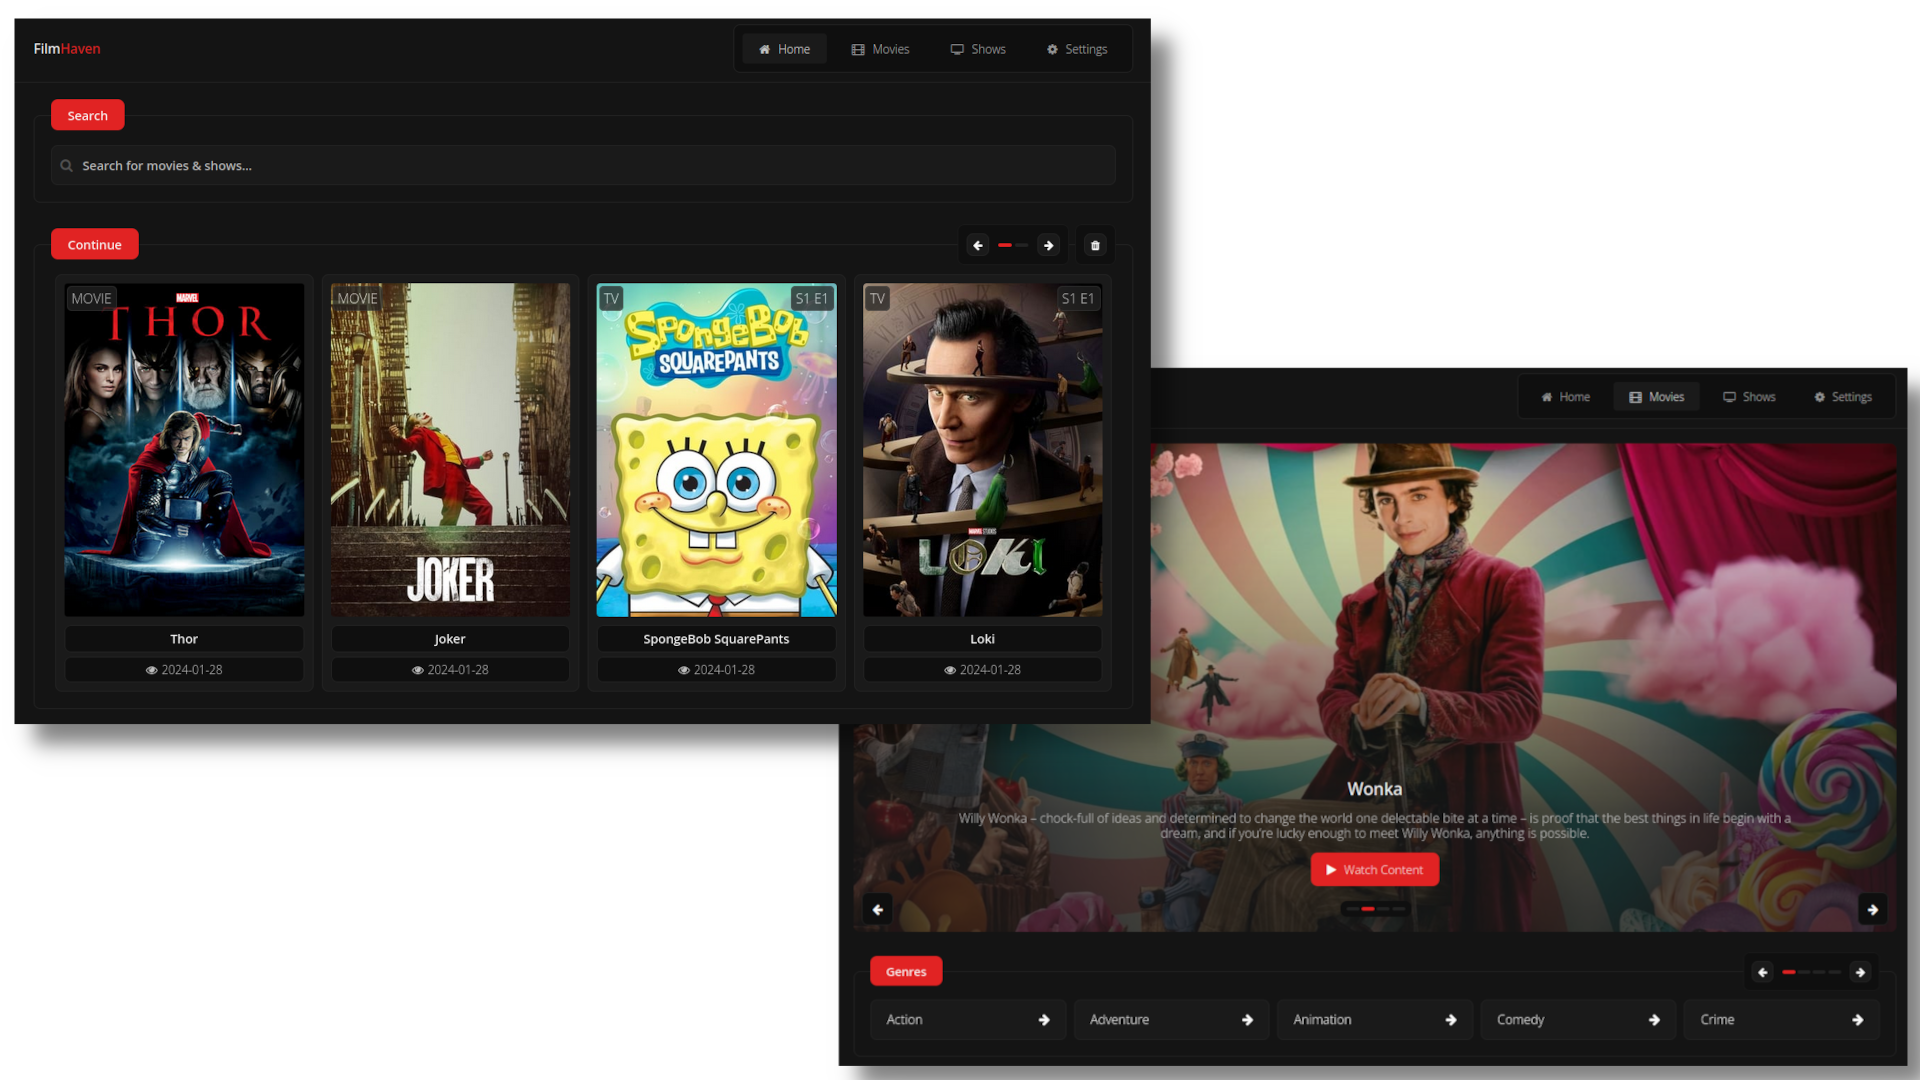
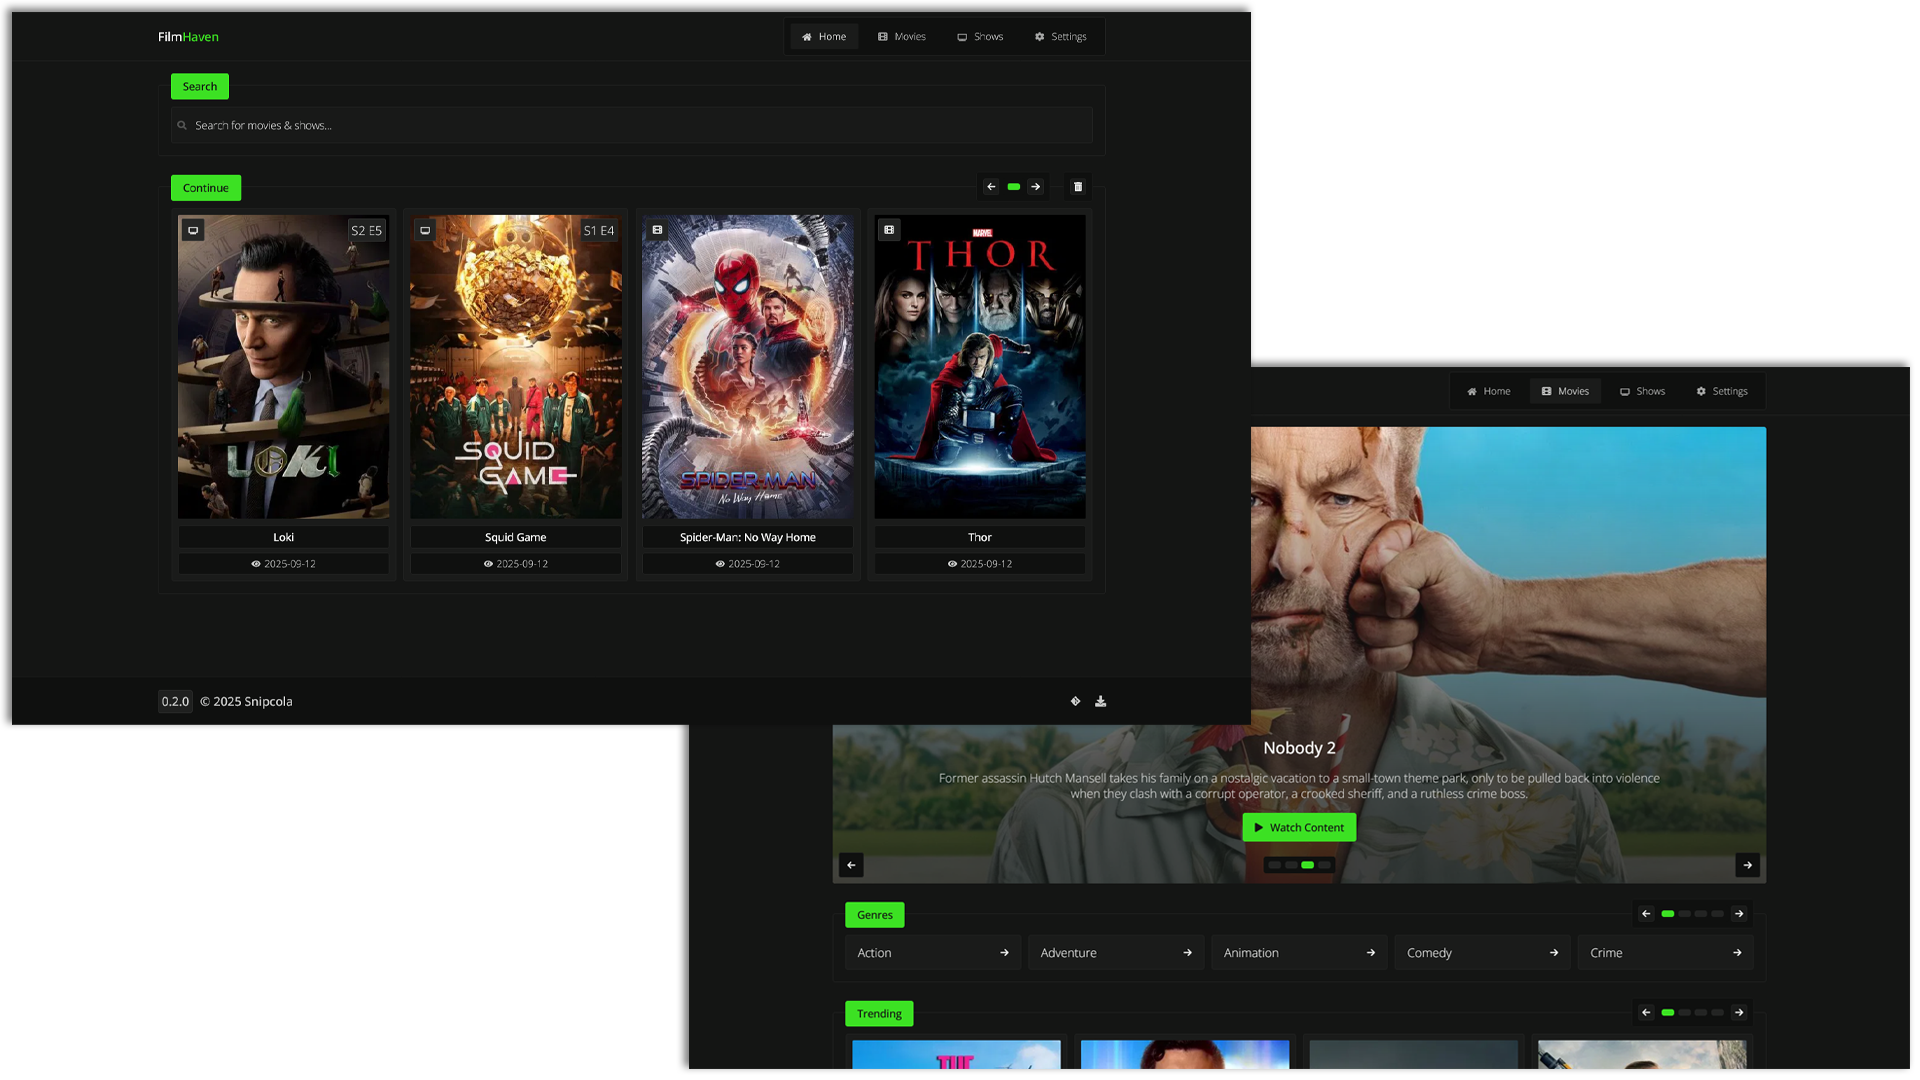
0.2.0: re-style, update dependencies, dockerfile, and workflow

diff --git a/src/styles/components/watch.css b/src/styles/components/watch.css
@@ -32,7 +32,7 @@
   border: var(--small-border) solid var(--light);
   border-radius: var(--border-radius);
 
-  height: calc(100dvh - (16px + 1px + 10px + 42px + 8px + 20px + 1rem));
+  height: calc(100dvh - var(--watch-height-subtract));
   min-height: calc(var(--max-width) / 20);
 
   -webkit-mask-image: -webkit-radial-gradient(var(--light), var(--dark));
@@ -132,7 +132,7 @@
   position: fixed;
 
   z-index: 9;
-  background-color: rgba(var(--light-rgb), 0.6);
+  background-color: rgba(var(--light-rgb), 0.8);
 
   user-select: none;
   -webkit-user-select: none;
@@ -341,7 +341,7 @@
 }
 
 .watch .details .control .button {
-  border-radius: 50%;
+  border-radius: var(--border-radius);
 }
 
 .watch .details .cast-cards,
@@ -409,7 +409,7 @@
   user-select: none;
   -webkit-user-select: none;
 
-  border-radius: 50%;
+  border-radius: var(--border-radius);
   object-fit: cover;
 }
 
@@ -484,7 +484,7 @@
   box-sizing: border-box;
 
   overflow: hidden;
-  border-radius: 50%;
+  border-radius: var(--border-radius);
 
   background-color: var(--light);
 }
@@ -594,7 +594,7 @@
   background-color: var(--light);
   border: var(--small-border) solid var(--lighter);
 
-  border-radius: 50%;
+  border-radius: var(--border-radius);
   margin-left: auto;
 
   font-size: var(--small-font);

diff --git a/src/scripts/components/search.js b/src/scripts/components/search.js
@@ -95,6 +95,7 @@ function initializeSearch(area, placeholder) {
     const loadImage = document.createElement("img");
     const title = document.createElement("div");
     const typeInfo = document.createElement("div");
+    const typeInfoIcon = document.createElement("i");
 
     const footer = document.createElement("div");
 
@@ -117,8 +118,10 @@ function initializeSearch(area, placeholder) {
     loadImage.src = transparentImage();
     loadImage.alt = "";
     title.className = "title";
+
     typeInfo.className = "type-info";
-    typeInfo.innerText = info.type?.toUpperCase();
+    typeInfoIcon.className = `icon icon-${info.type === "movie" ? "film" : "tv"}`;
+    typeInfo.append(typeInfoIcon);
 
     image.addEventListener("load", function () {
       card.classList.add("loaded");

diff --git a/src/styles/variables.css b/src/styles/variables.css
@@ -1,25 +1,28 @@
 html {
-  --border-radius: 0.8rem;
+  --border-radius: 0.2rem;
   --max-width: 80rem;
-  --transition-speed: 0.2s;
+  --transition-speed: 0.1s;
 
-  --dim-opacity: 75%;
-  --dimmer-opacity: 50%;
+  --dim-opacity: 80%;
+  --dimmer-opacity: 40%;
 
   --small-gap: 10px;
   --large-gap: 15px;
 
-  --small-border: 1.5px;
-  --large-border: 3px;
+  --small-border: 1px;
+  --large-border: 2px;
 
-  --small-padding: 10px;
-  --large-padding: 18px;
+  --small-padding: 8px;
+  --large-padding: 16px;
 
   --min-font: 13px;
   --small-font: 13px;
   --large-font: 14px;
   --max-font: 17px;
   --icon-font: 12px;
+
+  --watch-height-subtract: 6.3rem;
+  --watch-responsive-height-subtract: 6.05rem;
 
   --footer-height: 4rem;
 }

diff --git a/src/styles/components/card.css b/src/styles/components/card.css
@@ -112,16 +112,21 @@
   padding: calc(var(--small-padding) / 2);
   box-sizing: border-box;
 
-  top: calc(var(--small-padding) * 1.3);
-  right: calc(var(--small-padding) * 1.3);
+  top: calc(var(--small-padding) * 1.6);
+  right: calc(var(--small-padding) * 1.6);
 
   border-radius: calc(var(--border-radius) / 1.3);
-  opacity: calc(var(--dim-opacity) + 20%);
+  opacity: calc(var(--dim-opacity) + 15%);
 }
 
 .card .type-info {
+  padding: var(--small-padding) !important;
   right: initial !important;
-  left: calc(var(--small-padding) * 1.3);
+  left: calc(var(--small-padding) * 1.6);
+}
+
+.card .type-info .icon {
+  opacity: var(--dim-opacity);
 }
 
 .card .footer {

diff --git a/src/scripts/components/area.js b/src/scripts/components/area.js
@@ -120,10 +120,12 @@ export function initializeArea(
 
     if (info.continue) {
       const typeInfo = document.createElement("div");
+      const typeInfoIcon = document.createElement("i");
 
       typeInfo.className = "type-info";
-      typeInfo.innerText = info.type?.toUpperCase();
+      typeInfoIcon.className = `icon icon-${info.type === "movie" ? "film" : "tv"}`;
 
+      typeInfo.append(typeInfoIcon);
       card.append(typeInfo);
     }
 

diff --git a/src/styles/components/search.css b/src/styles/components/search.css
@@ -57,7 +57,7 @@
   justify-content: center;
 
   background-color: var(--primary);
-  padding: calc(var(--small-padding) / 1.5);
+  padding: calc(var(--small-padding) / 1.25);
 
   border-radius: var(--border-radius);
   transition: var(--transition-speed) opacity;

diff --git a/src/styles/components/watch.responsive.css b/src/styles/components/watch.responsive.css
@@ -66,6 +66,6 @@
 
 @media only screen and (max-width: 600px) {
   .modal .watch .video {
-    height: calc(100dvh - (16px + 1px + 10px + 37px + 8px + 20px + 1rem));
+    height: calc(100dvh - var(--watch-responsive-height-subtract));
   }
 }

diff --git a/src/styles/components/control.css b/src/styles/components/control.css
@@ -39,7 +39,7 @@
 }
 
 .control .indicator {
-  padding: 4px 8px;
+  padding: 4.5px 8.5px;
   background-color: var(--lighter);
 
   border-radius: var(--border-radius);
